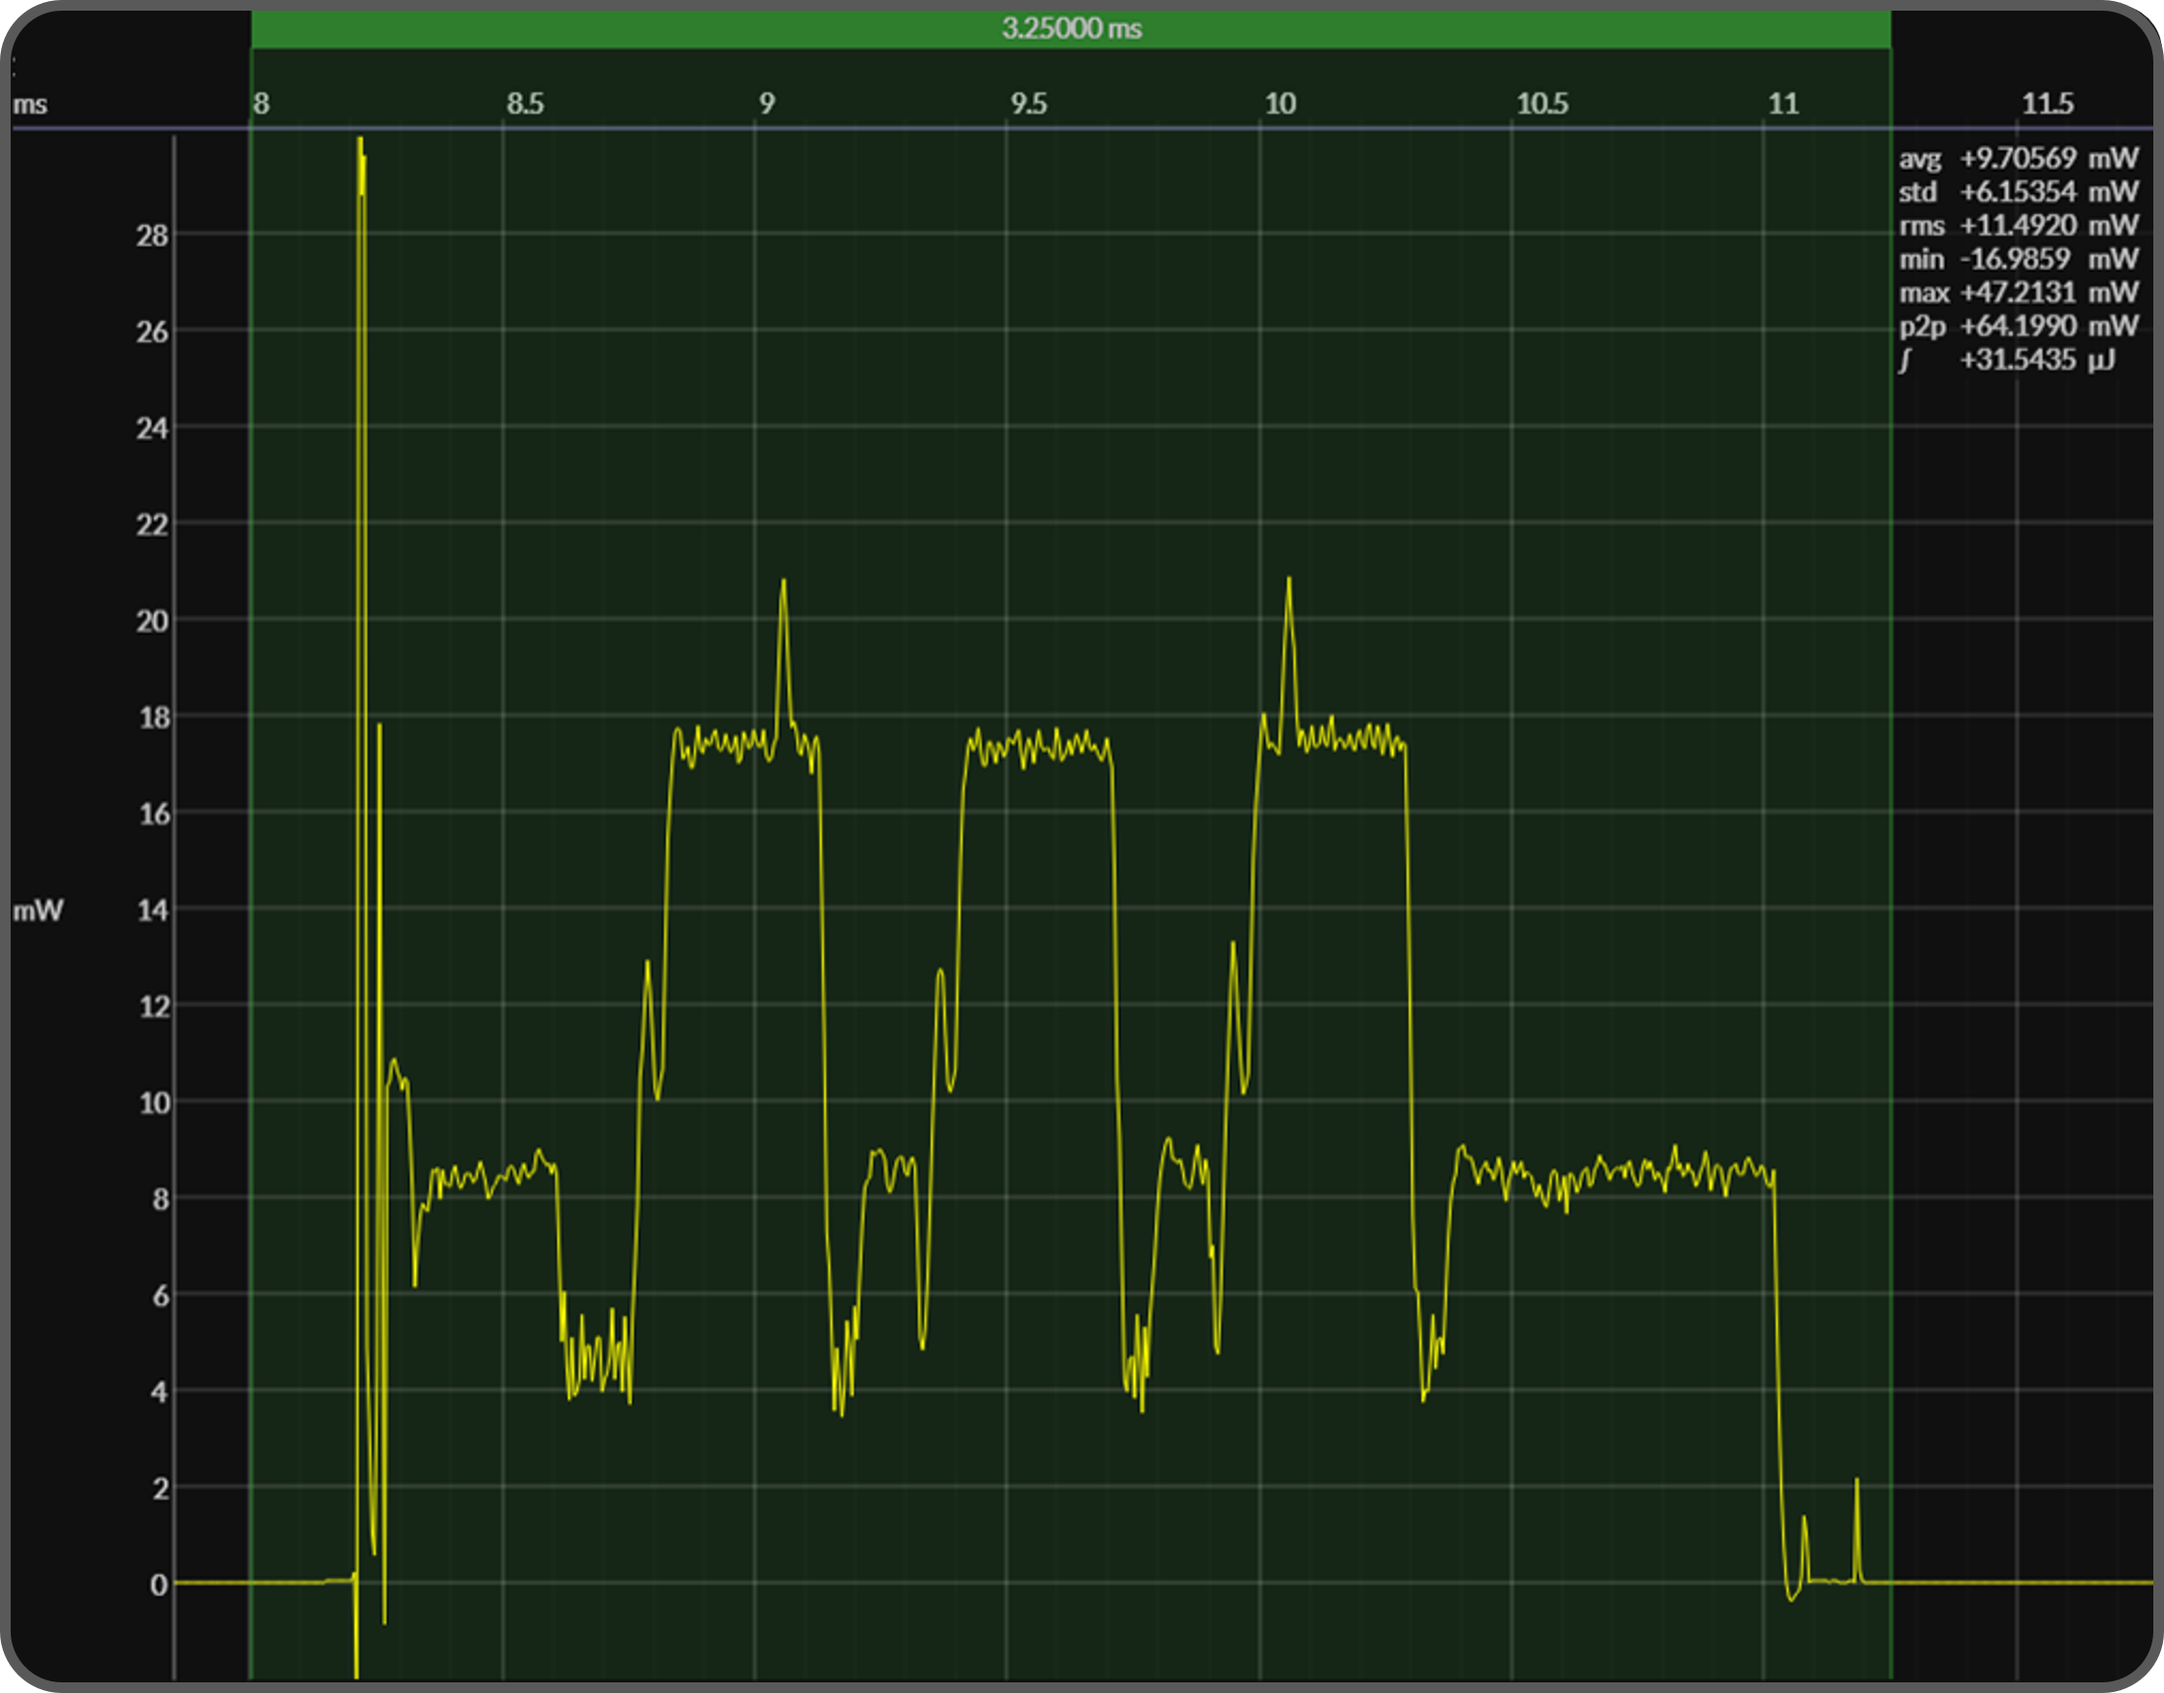
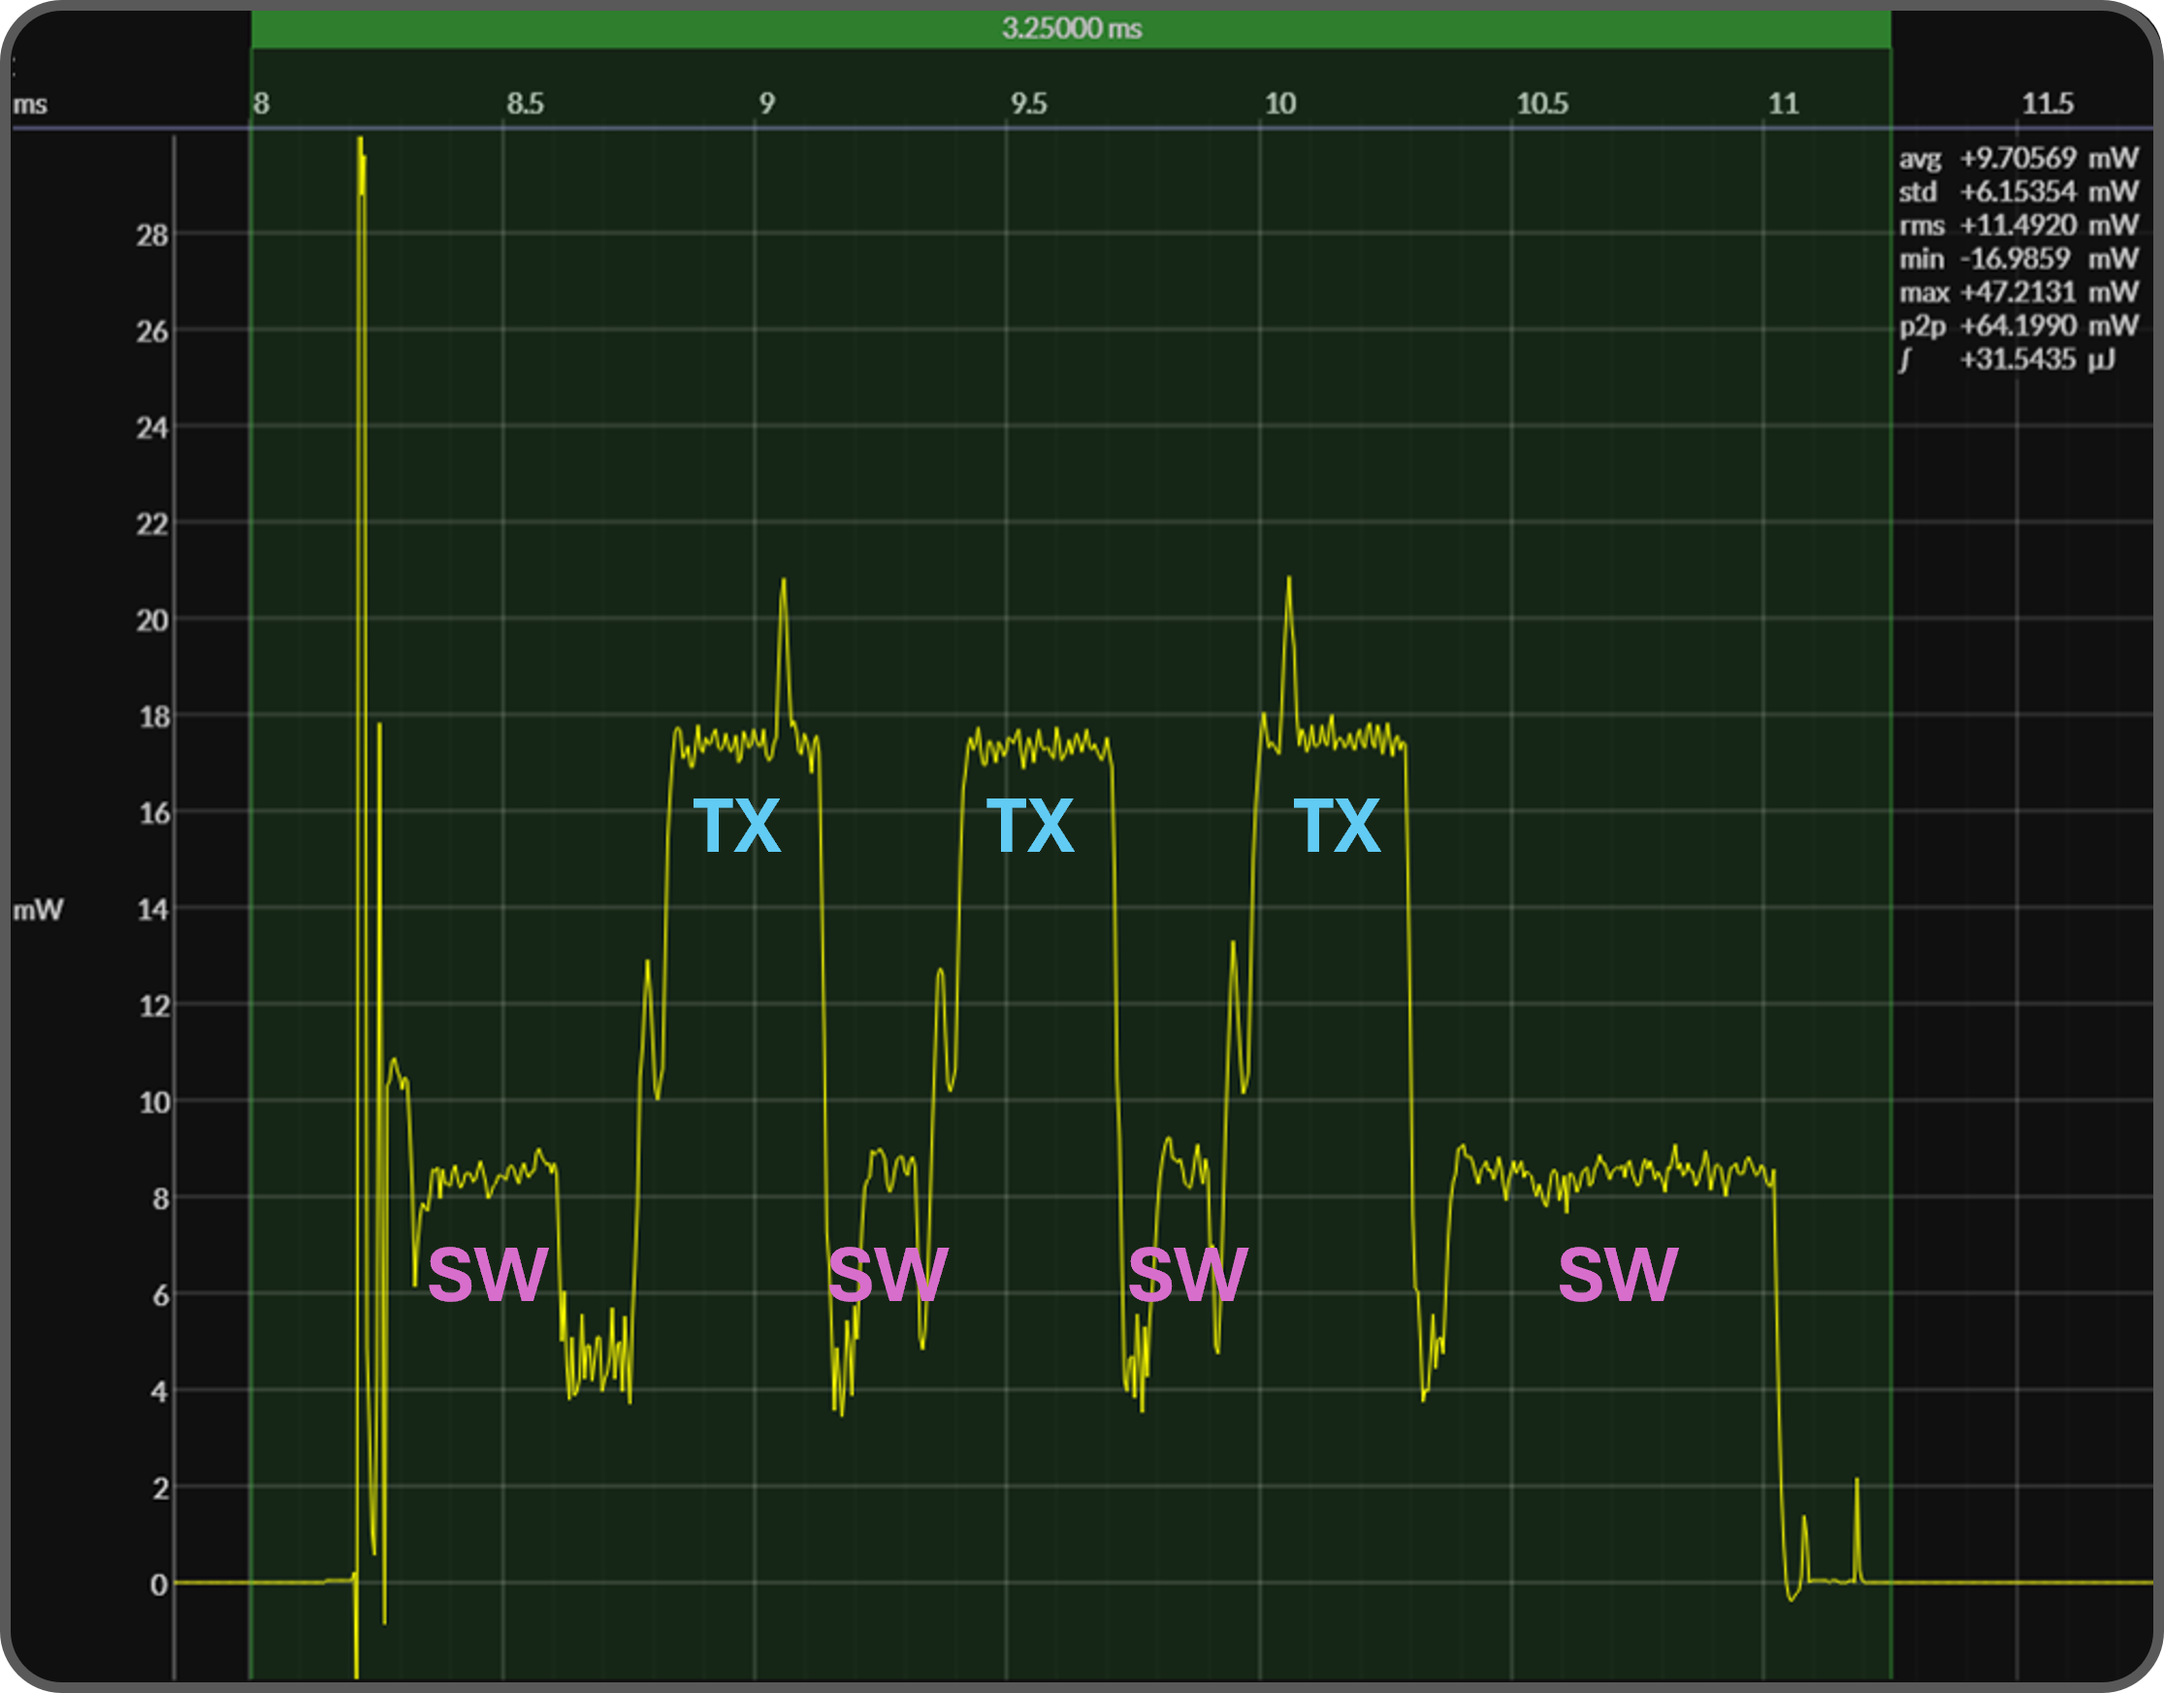
joules WIP

diff --git a/site/joules/index.html b/site/joules/index.html
@@ -187,7 +187,7 @@ figure.code figcaption {
     color: var(--muted);
 }
 
-.gallery-caption {
+.gallery-caption { 
     font-size: 0.85rem;
     font-weight: 500;
     color: rgba(255,255,255,0.8);
@@ -303,7 +303,7 @@ code.cmd-cs { color: #cd6f1c; }
                             <h2>EM<span class="em-bull"></span>Script <span class="em-arrow"></span> reclaim energy with software</h2>
                             <p>An alternative software approach can eliminate much of this overhead &ndash; reducing execution time and hence shrinking the area under the power curve.</p>
                             <p>The EM<span class="em-bull"></span>Script programming language employs a novel translator which generates tiny, specialized target firmware &ndash; often outperforming legacy C code.</p>
-                            <p>Less time active <span class="em-arrow"></span> more time asleep.</p>
+                            <p>In practice, smaller code will often correlate with higher energy efficiency.</p>
                         </div>
                     </section>
 
@@ -311,13 +311,30 @@ code.cmd-cs { color: #cd6f1c; }
                         <div class="group-title">The Proof</div>
 
                         <div class="item">
-                            <h2>Same HW <span class="em-arrow"></span> compare two BLE stacks</h2>
-                        </div>
+                            <h2>Same HW <span class="em-arrow"></span> different BLE SW</h2>
+                            <p>Compare power profiles for two SW implementations of the BlueJoule workload on the TI CC2340 MCU:</p>
+                            <figure class="code">
+                                <img class="code-shot" src="fig-2.png" alt="BLE Advertising Event">
+                                <div class="gallery-caption">Vendor SDK &ndash; Energy Consumption</div>
+                            </figure>
+                             <figure class="code">
+                                <img class="code-shot" src="fig-3.png" alt="BLE Advertising Event">
+                                <div class="gallery-caption">EM&bull;Script &ndash; Energy Consumption</div>
+                            </figure>
+                            <p>Reduced SW overhead shrinks the area under the curve &ndash; and EM&bull;Script clearly uses less energy here.</p>
+                            <p>Nordic nRF52/nRF54 HW shows similar gains in energy efficiency when running EM&bull;Script SW.</p>
+                         </div>
                         <div class="item">
                             <h2>EM<span class="em-bull"></span>eralds <span class="em-arrow"></span> quantify energy efficiency</h2>
+                            <p>To streamline comparison of different HW/SW configurations, BlueJoule uses a single metric to quantify energy efficiency &ndash; the EM&bull;erald.</p>
+                            <p>After capturing raw power samples during live workload execution, BlueJoule tooling computes a gamified <i>“higher is better”</i> energy score.</p>
+                            <p>Returning to the TI CC2340 waveforms shown above, the vendor's BLE stack vs EM&bull;Script yield scores of <b>28.7</b> vs <b>40.1</b> EM&bull;eralds.</p>
+                            <p>Since 1 EM•erald ≈ 1 CR2032-month, the EM&bull;Script version runs roughly one year <i>longer</i> when powered by this popular coin-cell battery.</p>
                         </div>
                         <div class="item">
                             <h2>EM<span class="em-bull"></span>Script <span class="em-arrow"></span> consistently better</h2>
+                            <p>The BlueJoule repository (linked below) stores power waveforms captured at a range of voltages for different HW/SW configurations.</p>
+                            <p>Captures with labels of the form <code>*/emscript-*</code> consistently report higher EM&bull;erald scores &ndash; by reducing the area under the power curve when active.</p>
                         </div>
                     </section>
 
@@ -326,17 +343,26 @@ code.cmd-cs { color: #cd6f1c; }
 
                         <div class="item">
                             <h2>Fewer instructions <span class="em-arrow"></span> faster execution</h2>
+                            <p>Vendor BLE stacks span hundreds of kilobytes; the EM&bull;Script implementation fits in 2.5–5 KB.</p>
+                            <p>The sheer number of instructions executed by vendor stacks to setup/teardown basic BLE advertising dwarfs comparable EM&bull;Script code.</p>
+                            <p>Complex device-driver designs coupled with layers of OS abstractions come with a cost &ndash; added execution time to perform the same tasks.</p>
                         </div>
                         <div class="item">
                             <h2>Less CPU activity <span class="em-arrow"></span> more time asleep</h2>
+                            <p>Many embedded systems spend most of their lifetime in low-power <i>deep-sleep</i>.</p>
+                            <p>While these systems can draw &gt;10&thinsp;mW when active, they need as little as ~1&thinsp;&mu;W of power when asleep.</p>
+                            <p>Executing fewer instructions minimizes CPU activity &ndash; allowing an earlier return to deep-sleep.</p>
                         </div>
                         <div class="item">
                             <h2>Reduced memory access <span class="em-arrow"></span> greater efficiency</h2>
+                            <p>Compact EM&bull;Script programs also lead to more energy-efficient use of memory resources.</p>
+                            <p>Code as small as 2.5&thinsp;KB improves CPU <i>cache hits</i> &ndash; not only speeding execution, but also reducing power consumption from FLASH.</p>
+                            <p>On some MCUs (like the TI CC2340), small EM&bull;Script programs can execute entirely from SRAM &ndash; keeping FLASH&thinsp;+&thinsp;cache memory powered-down.</p>
                         </div>
                     </section>
 
                     <section class="group">
-                        <div class="group-title">The Artifact</div>
+                        <div class="group-title">The Artifacts</div>
 
                         <div class="item">
                             <h2>Portable EM<span class="em-bull"></span>Script <span class="em-arrow"></span> <code>BlueJoule.em.ts</code></h2>
